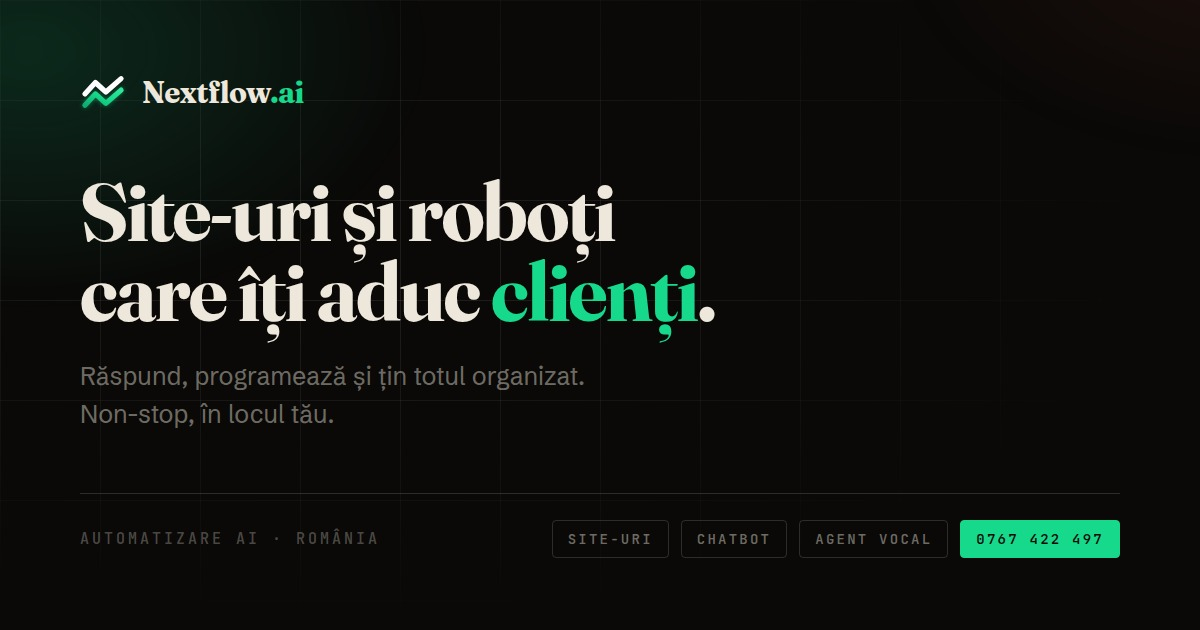
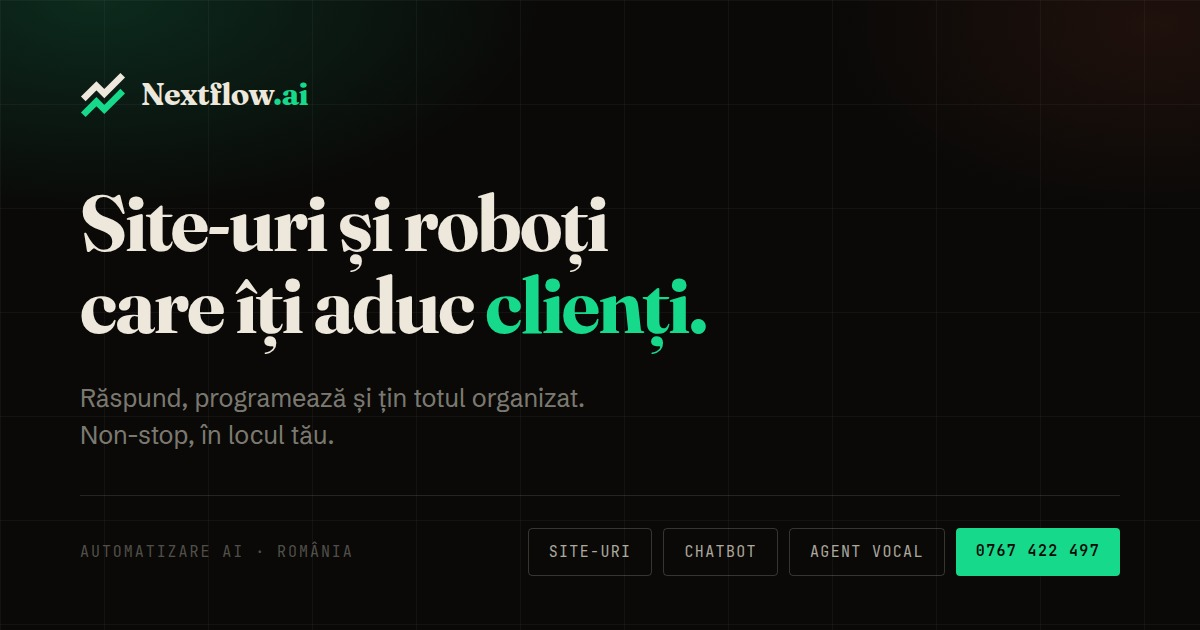
design: marca redesenată pe geometrie strictă, fără efecte
Ce o făcea să pară generată:
- unghiuri întâmplătoare pe cele patru vârfuri, așa că distanța dintre
  cele două linii se strângea și se lărgea de la un segment la altul
- halo verde din feGaussianBlur în spatele liniei
- două degrade cu câte trei opriri, invizibile la 36 de pixeli
- buline lipite la capetele din dreapta

Acum: fiecare segment cade exact la 45°, deci decalajul pe verticală
păstrează un spațiu constant între linii pe tot traseul. Culori plate,
capete tăiate drept, colțuri ascuțite — aceeași familie cu liniile
subțiri și eticheta mono din rest. Albul pur a devenit --bone, ca marca
să stea în paletă, nu deasupra ei.

Aplicat peste tot: navbar, subsol, pagini legale, favicon, animația de
intrare (cu lungimea traseului recalculată, 43 în loc de 54) și imaginea
de partajare, regenerată.

Claude-Session: https://claude.ai/code/session_01DF66cBvFRBP8bnhsNoxjcr

diff --git a/components/Logo.tsx b/components/Logo.tsx
@@ -1,96 +1,64 @@
 type Props = {
-  /** Culoarea wordmark-ului (ignorată dacă wordmark-ul e ascuns) */
+  /** Culoarea wordmark-ului și a liniei deschise pe fundal luminos */
   tone?: 'bone' | 'ink'
   /** Afișează textul „Nextflow.ai" lângă marcă */
   showWordmark?: boolean
   size?: number
-  /** Prefix unic pentru id-urile din <defs> — evită coliziuni când marca apare de mai multe ori */
-  uid?: string
   className?: string
 }
 
 /**
- * Marca Nextflow — două linii în zigzag, una albă și una verde, care urcă
- * împreună: fluxul afacerii înainte și după automatizare. Peste ideea de
- * bază: degrade pe linia verde, o urmă estompată care sugerează mișcarea
- * și noduri la capete, ca linia să pară un traseu viu, nu un simplu chevron.
+ * Marca Nextflow — două linii în zigzag, una deschisă și una verde, care
+ * urcă împreună: fluxul afacerii înainte și după automatizare.
+ *
+ * Construcția e strictă: fiecare segment cade exact la 45°. Asta nu e
+ * o toană — când toate segmentele au aceeași înclinare, o deplasare pe
+ * verticală păstrează distanța dintre linii constantă pe tot traseul.
+ * În varianta veche unghiurile erau întâmplătoare, așa că spațiul dintre
+ * linii se strângea și se lărgea de la un segment la altul, iar marca
+ * părea desenată din ochi.
+ *
+ * Fără degrade, fără halo, fără bulinele de la capete: la 36 de pixeli
+ * nu se văd oricum, iar o marcă trebuie să reziste și dintr-un fax.
+ * Capetele tăiate drept și colțurile ascuțite țin de aceeași familie cu
+ * liniile subțiri și eticheta mono din restul site-ului.
  */
 export default function Logo({
   tone = 'bone',
   showWordmark = true,
   size = 34,
-  uid = 'nf',
   className = '',
 }: Props) {
-  const textColor = tone === 'bone' ? 'var(--bone)' : 'var(--on-paper)'
+  const light = tone === 'bone' ? 'var(--bone)' : 'var(--on-paper)'
 
-  const gGreen = `${uid}-green`
-  const gWhite = `${uid}-white`
-  const fGlow = `${uid}-glow`
-
-  // Același traseu, decalat pe verticală: sus alb, jos verde
-  const top = 'M5 23 L16 11 L27 21 L43 7'
-  const bottom = 'M5 35 L16 23 L27 33 L43 19'
+  /* Același traseu, coborât cu 12 unități. Vârfuri: +10, −6, +14 —
+     ritm inegal, ca urcarea să aibă un puls, nu un dinte de ferăstrău. */
+  const top = 'M2.5 20.5 L12.5 10.5 L18.5 16.5 L32.5 2.5'
+  const bottom = 'M2.5 32.5 L12.5 22.5 L18.5 28.5 L32.5 14.5'
 
   return (
     <span className={`inline-flex items-center gap-3 ${className}`}>
-      <svg
-        width={size}
-        height={size}
-        viewBox="0 0 48 42"
-        fill="none"
-        aria-hidden="true"
-        style={{ overflow: 'visible' }}
-      >
-        <defs>
-          <linearGradient id={gGreen} x1="0" y1="1" x2="1" y2="0">
-            <stop offset="0%" stopColor="var(--green-deep)" />
-            <stop offset="55%" stopColor="var(--green)" />
-            <stop offset="100%" stopColor="var(--green-soft)" />
-          </linearGradient>
-
-          <linearGradient id={gWhite} x1="0" y1="1" x2="1" y2="0">
-            <stop offset="0%" stopColor={tone === 'bone' ? '#C9C2B5' : '#4A4540'} />
-            <stop offset="100%" stopColor={tone === 'bone' ? '#FFFFFF' : '#131110'} />
-          </linearGradient>
-
-          <filter id={fGlow} x="-60%" y="-60%" width="220%" height="220%">
-            <feGaussianBlur stdDeviation="2.6" />
-          </filter>
-        </defs>
-
-        {/* Urma estompată — dă senzația de mișcare, nu se vede ca element separat */}
-        <g filter={`url(#${fGlow})`} opacity="0.5">
-          <path d={bottom} stroke="var(--green)" strokeWidth="5" strokeLinecap="round" strokeLinejoin="round" />
-        </g>
-
-        {/* Linia verde */}
+      <svg width={size} height={size} viewBox="0 0 35 35" fill="none" aria-hidden="true">
         <path
           d={bottom}
-          stroke={`url(#${gGreen})`}
-          strokeWidth="5.4"
-          strokeLinecap="round"
-          strokeLinejoin="round"
+          stroke="var(--green)"
+          strokeWidth="5"
+          strokeLinecap="butt"
+          strokeLinejoin="miter"
         />
-
-        {/* Linia albă */}
         <path
           d={top}
-          stroke={`url(#${gWhite})`}
-          strokeWidth="5.4"
-          strokeLinecap="round"
-          strokeLinejoin="round"
+          stroke={light}
+          strokeWidth="5"
+          strokeLinecap="butt"
+          strokeLinejoin="miter"
         />
-
-        {/* Noduri la capetele din dreapta — punctul în care traseul „ajunge" */}
-        <circle cx="43" cy="7" r="1.9" fill={tone === 'bone' ? '#FFFFFF' : '#131110'} />
-        <circle cx="43" cy="19" r="1.9" fill="var(--green-soft)" />
       </svg>
 
       {showWordmark && (
         <span
           className="font-display text-[1.125rem] font-bold tracking-[-0.02em]"
-          style={{ color: textColor }}
+          style={{ color: light }}
         >
           Nextflow
           <span style={{ color: 'var(--green)' }}>.ai</span>

diff --git a/components/Intro.tsx b/components/Intro.tsx
@@ -42,29 +42,22 @@ export default function Intro() {
 
   return (
     <div className={`intro ${phase === 'leaving' ? 'intro-leaving' : ''}`} aria-hidden="true">
-      <svg width="132" height="116" viewBox="0 0 48 42" fill="none" className="intro-mark">
-        <defs>
-          <linearGradient id="intro-g" x1="0" y1="1" x2="1" y2="0">
-            <stop offset="0%" stopColor="var(--green-deep)" />
-            <stop offset="55%" stopColor="var(--green)" />
-            <stop offset="100%" stopColor="var(--green-soft)" />
-          </linearGradient>
-        </defs>
+      <svg width="126" height="126" viewBox="0 0 35 35" fill="none" className="intro-mark">
         <path
           className="intro-line intro-line-2"
-          d="M5 35 L16 23 L27 33 L43 19"
-          stroke="url(#intro-g)"
-          strokeWidth="5.4"
-          strokeLinecap="round"
-          strokeLinejoin="round"
+          d="M2.5 32.5 L12.5 22.5 L18.5 28.5 L32.5 14.5"
+          stroke="var(--green)"
+          strokeWidth="5"
+          strokeLinecap="butt"
+          strokeLinejoin="miter"
         />
         <path
           className="intro-line intro-line-1"
-          d="M5 23 L16 11 L27 21 L43 7"
-          stroke="#FFFFFF"
-          strokeWidth="5.4"
-          strokeLinecap="round"
-          strokeLinejoin="round"
+          d="M2.5 20.5 L12.5 10.5 L18.5 16.5 L32.5 2.5"
+          stroke="var(--bone)"
+          strokeWidth="5"
+          strokeLinecap="butt"
+          strokeLinejoin="miter"
         />
       </svg>
     </div>

diff --git a/app/globals.css b/app/globals.css
@@ -611,13 +611,13 @@ footer[id] { scroll-margin-top: 6rem; }
 .intro-mark { overflow: visible; }
 
 .intro-line {
-  /* traseul se desenează: linia e „ascunsă" în propria lungime.
-     54 ≈ lungimea reală a traseului (16,3 + 14,9 + 21,3), ca desenarea
-     să înceapă imediat, nu după o pauză moartă. */
-  stroke-dasharray: 54;
-  stroke-dashoffset: 54;
+  /* Traseul se desenează: linia e „ascunsă" în propria lungime.
+     Toate segmentele cad la 45°, deci lungimea e (10 + 6 + 14) × √2 ≈ 43.
+     Cifra trebuie să fie cea reală — dacă e mai mare, desenarea începe
+     după o pauză moartă; dacă e mai mică, linia apare deja pornită. */
+  stroke-dasharray: 43;
+  stroke-dashoffset: 43;
   animation: draw 1s cubic-bezier(0.65, 0, 0.35, 1) forwards;
-  filter: drop-shadow(0 0 14px rgba(23, 217, 139, 0.35));
 }
 .intro-line-1 { animation-delay: 0.12s; }
 .intro-line-2 { animation-delay: 0.34s; }

diff --git a/components/Navbar.tsx b/components/Navbar.tsx
@@ -41,7 +41,7 @@ export default function Navbar() {
           <nav className="flex h-16 items-center justify-between md:h-[76px]">
             {/* Doar marca, fără wordmark */}
             <a href="/" aria-label="Nextflow.ai — acasă" className="relative z-10">
-              <Logo showWordmark={false} size={36} uid="nf-nav" />
+              <Logo showWordmark={false} size={36} />
             </a>
 
             {/* Navigație desktop — etichete mono cu index */}

diff --git a/components/Footer.tsx b/components/Footer.tsx
@@ -54,7 +54,7 @@ export default function Footer() {
           {/* ── Brand ── */}
           <div className="col-span-12 lg:col-span-5">
             <a href="/" aria-label="Nextflow.ai — acasă" className="inline-block">
-              <Logo uid="nf-foot" />
+              <Logo />
             </a>
             <p
               className="mt-6 max-w-[34ch] text-[0.9375rem] leading-relaxed"

diff --git a/components/LegalPage.tsx b/components/LegalPage.tsx
@@ -57,7 +57,7 @@ export default function LegalPage({
       >
         <div className="shell flex h-16 items-center justify-between md:h-[76px]">
           <a href="/" aria-label="Nextflow.ai — acasă">
-            <Logo uid="nf-legal" size={34} />
+            <Logo size={34} />
           </a>
           <a
             href="/"
